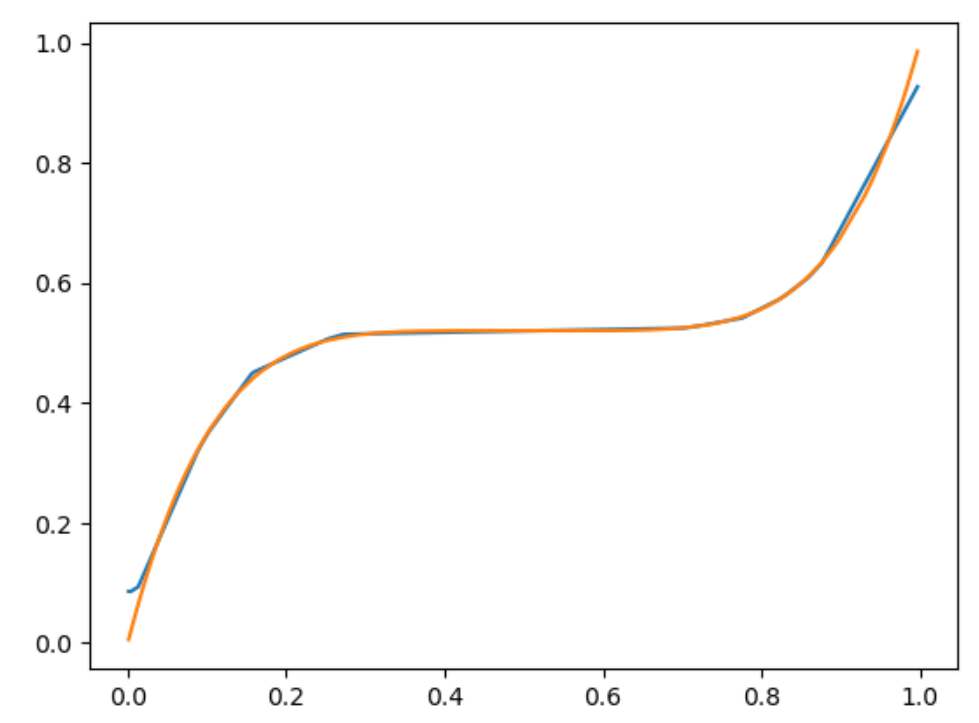
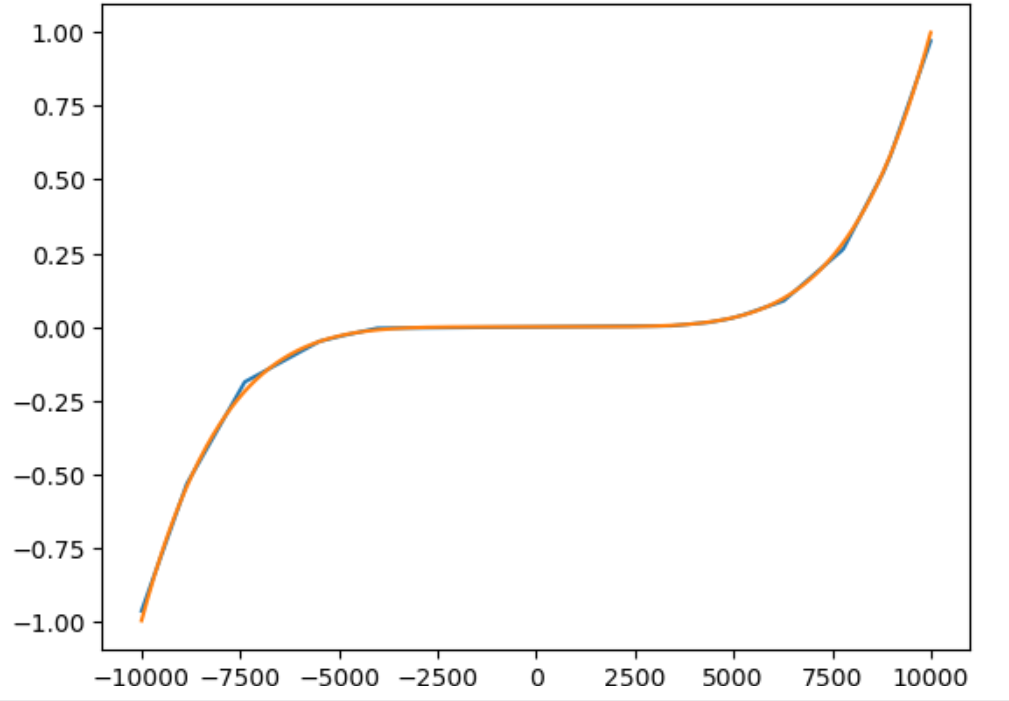
1212

Changed region(s): [[0.0, 0.0, 0.9806, 0.9886]]

diff --git a/source/basenn/projects.md b/source/basenn/projects.md
@@ -278,8 +278,8 @@ def quintic_polynomial(x, a=1, b=0, c=0, d=0, e=0, f=0):
     return a * x**5 + b * x**4 + c * x**3 + d * x**2 + e * x + f
 
 # 生成数据点
-x = np.linspace(-50, 50, 1000, dtype=np.float32)  # 生成 -10 到 10 之间的 100 个点，确保生成的数据是 float32 类型
-a, b, c, d, e, f = 1, -2, 1, 2, -1, 1
+x = np.linspace(-10000, 10000, 10000, dtype=np.float32)  # 生成 -10000 到 10000 之间的 10000 个点，确保生成的数据是 float32 类型
+a, b, c, d, e, f = 1, 13, 35, -85, -216, 252 # 设置系数
 y = quintic_polynomial(x, a, b, c, d, e, f)
 noise = np.random.normal(0, 2, y.shape).astype(np.float32)  # 将噪声转换为 float32 类型
 y_noisy = y + noise
@@ -343,7 +343,7 @@ model.add('Linear', size=(6, 1))
 model.add(optimizer='Adam')
 # 设置模型保存的路径
 model.save_fold = 'checkpoints/ckpt'
-model.train(lr=0.01, epochs=200,loss='MSELoss') # 训练
+model.train(lr=0.01, epochs=500,loss='MSELoss') # 训练
 ```
 
 ##### 4）模型推理
@@ -364,7 +364,15 @@ model = nn('reg')
 y_pred = model.inference(val_x,checkpoint = 'checkpoints/ckpt/basenn.pth')  # 对该数据进行预测
 ```
 
-绘图将预测值 (y_pred) 和实际值 (val_y) 与 val_x 的值进行对比，效果是相当不错的。
+借助matplotlib绘图将预测值 (y_pred) 和实际值 (val_y) 与 val_x 的值进行对比，效果是相当不错的。
+
+先将x和y从标准化的状态恢复到它们原始的比例和值，使用和预处理时一样的方式，scaler和scaler2均调用数据预处理时的。
+
+```
+y_pred = scaler.inverse_transform(y_pred)
+val_y = scaler.inverse_transform(val_y.reshape(-1, 1))
+val_x = scaler2.inverse_transform(val_x.reshape(-1, 1))
+```
 
 ```
 import matplotlib.pyplot as plt
